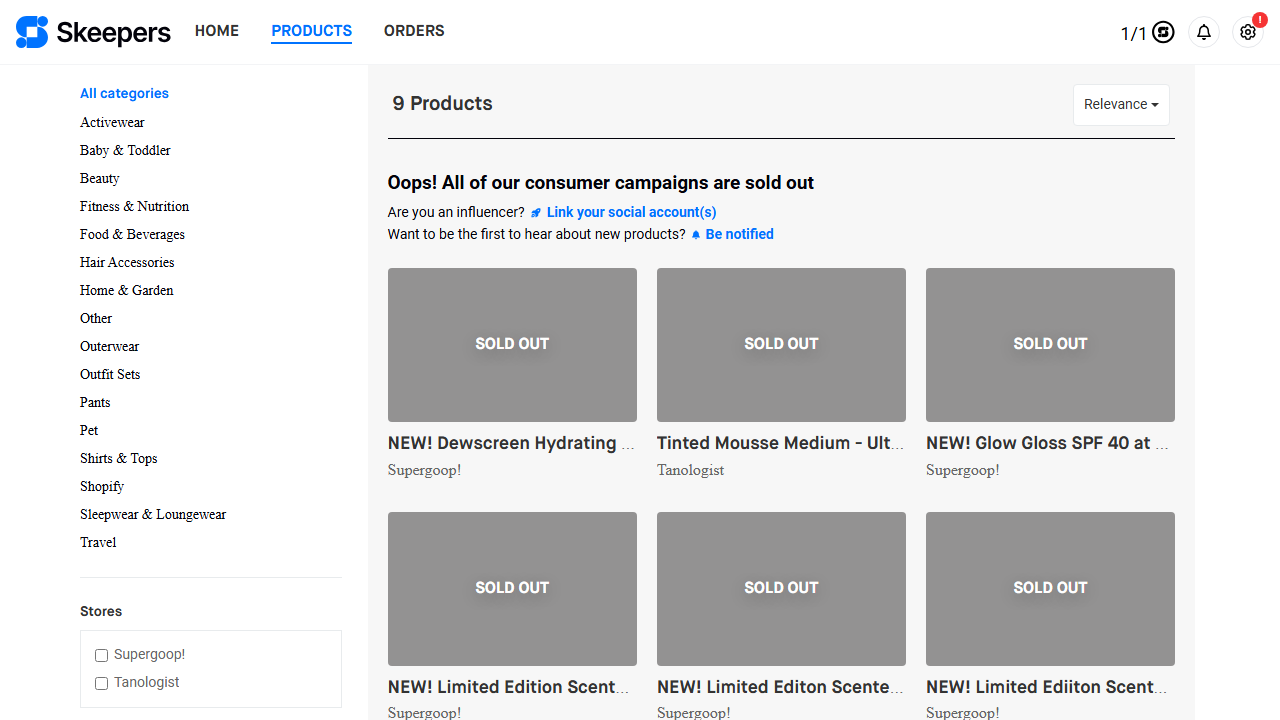
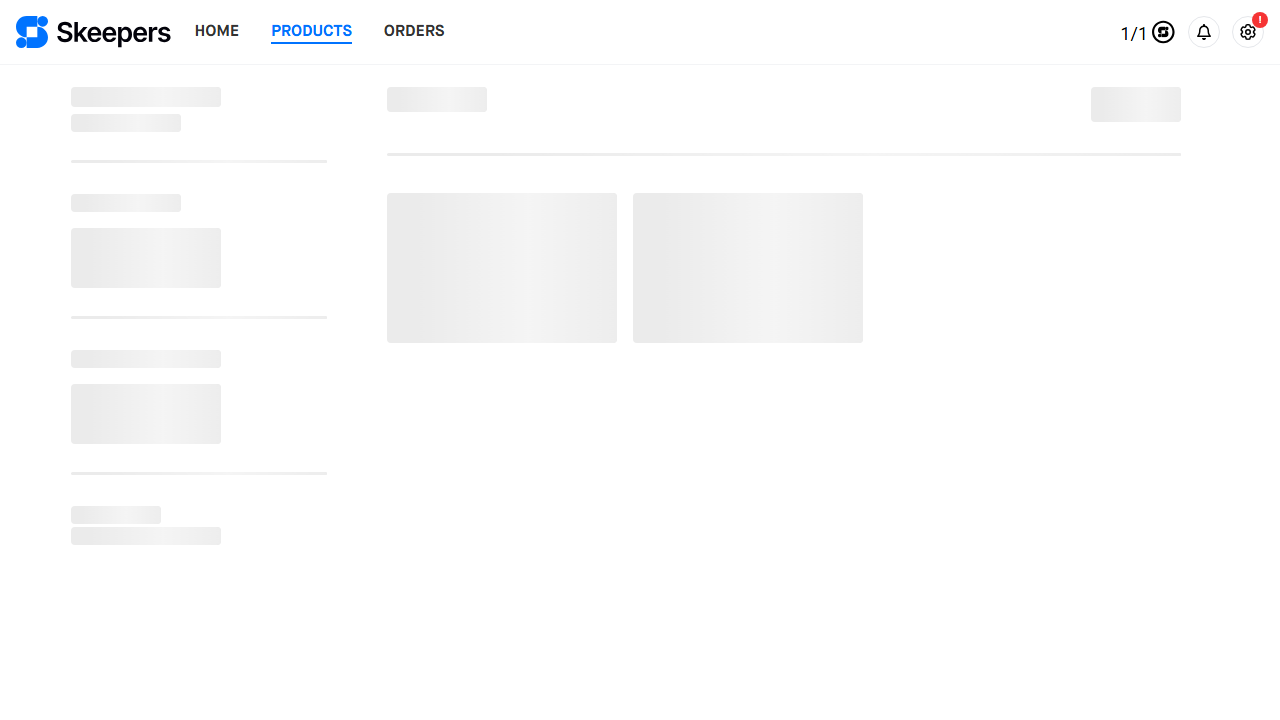
check added

diff --git a/scraper.js b/scraper.js
@@ -218,6 +218,18 @@ async function main() {
   let scrapeCount = 0;
   const HEARTBEAT_INTERVAL = 24 * 60 * 60 * 1000; // 24 hours
 
+  if (process.env.RUN_ONCE === "true") {
+    console.log("Running in SINGLE-RUN mode (RUN_ONCE=true)...");
+    try {
+      await scrapeSkeepers();
+      console.log("Scrape completed successfully.");
+    } catch (err) {
+      console.error("Scrape failed:", err);
+      process.exit(1);
+    }
+    process.exit(0);
+  }
+
   while (true) {
     try {
       await scrapeSkeepers();
